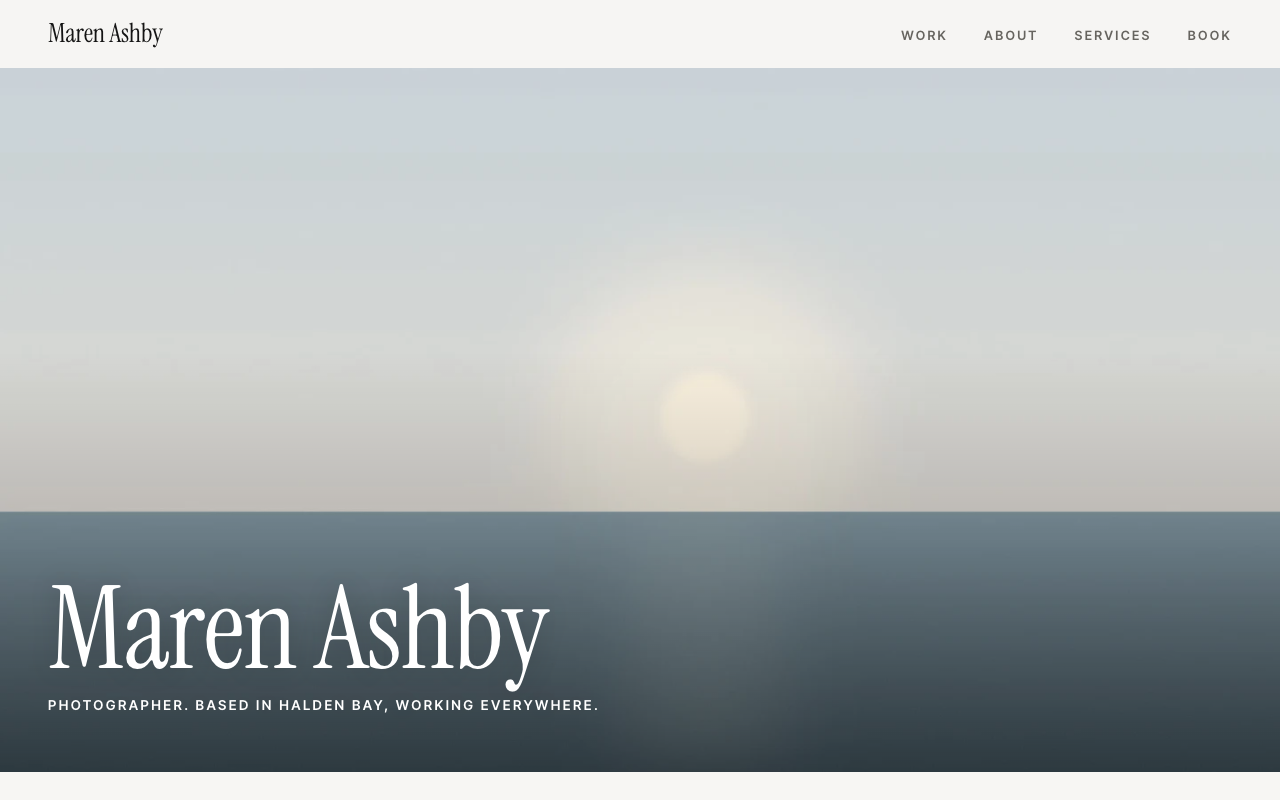
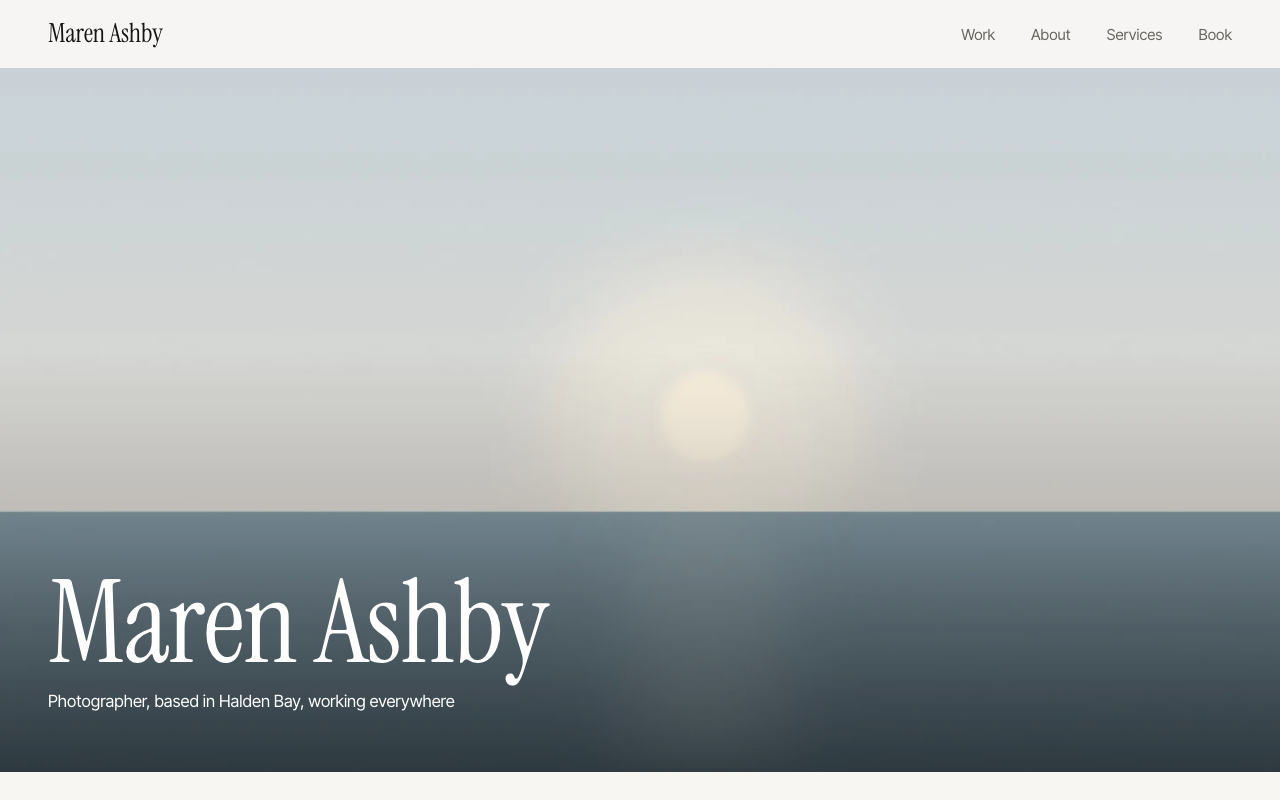
Unslop pass: sentence-case labels and buttons, no italic emphasis, no greeting or zoom on hover

Changed region(s): [[0.0312, 0.7188, 0.4688, 0.9062], [0.7188, 0.0312, 0.9062, 0.0625], [0.9375, 0.0312, 0.9688, 0.0625]]

diff --git a/src/styles/global.css b/src/styles/global.css
@@ -17,6 +17,7 @@
   --wrap: 1240px;
   --gutter: clamp(16px, 4vw, 48px);
   --gap: 8px;
+  --ease: cubic-bezier(0.22, 1, 0.36, 1);
 }
 
 @media (prefers-color-scheme: dark) {
@@ -82,7 +83,7 @@ h3 {
 }
 
 em {
-  font-style: italic;
+  font-style: normal;
 }
 
 p {
@@ -111,12 +112,10 @@ a {
 
 .label {
   display: block;
-  font-size: 0.75rem;
-  font-weight: 600;
-  letter-spacing: 0.2em;
-  text-transform: uppercase;
+  font-size: 0.95rem;
+  font-weight: 500;
   color: var(--muted);
-  margin-bottom: 1.25rem;
+  margin-bottom: 1rem;
 }
 
 .lede {
@@ -134,17 +133,15 @@ a {
   border: 1px solid var(--ink);
   border-radius: 0;
   font: inherit;
-  font-size: 0.85rem;
-  font-weight: 600;
-  letter-spacing: 0.14em;
-  text-transform: uppercase;
+  font-size: 1rem;
+  font-weight: 500;
   text-decoration: none;
   cursor: pointer;
   background: transparent;
   color: var(--ink);
   transition:
-    background-color 0.2s ease,
-    color 0.2s ease;
+    background-color 0.16s var(--ease),
+    color 0.16s var(--ease);
 }
 
 .btn:hover,

diff --git a/src/data/site.ts b/src/data/site.ts
@@ -17,7 +17,7 @@ export const site = {
 };
 
 export const home = {
-  intro: "Quiet pictures of light, land and the people in it.",
+  intro: "Quiet pictures of light, land and the people in it",
   text: "I make photographs for magazines, brands and families who want images that feel calm, honest and a little unhurried.",
   // The collection shown full-bleed at the top of the home page.
   heroPhoto: "coast-1.jpg",

diff --git a/UNSLOP.md b/UNSLOP.md
@@ -1,0 +1,36 @@
+# Unslop pass
+
+Done with the unslop skill (by Damir Sokolovsky, @heydamir, CC BY 4.0), 24 November 2026.
+
+## Audit
+
+Slop level: light. A restrained editorial portfolio already (warm paper, Instrument Serif, Inter Tight, square corners, the photographs carrying all the color), so this was polish mode.
+
+- Uppercase tracked labels nearly everywhere: nav, menu button, section labels, "All collections" links, the hero line under the name, buttons, form labels, collection facts, the back link, client list title, the "Most booked" tag
+- Italic for emphasis in headlines: "Services *and* pricing", "Hello, I'm *Maren*.", "Out of *frame.*", the footer's "*Let's talk.*", and titles turning italic on hover
+- A greeting headline on About ("Hello, I'm Maren.")
+- Trailing periods on headlines and short lines: the home statement, the hero line ("Photographer. Based in Halden Bay, working everywhere."), "Let's talk.", "Out of frame."
+- Zero-padded collection numbers ("01", "02")
+- Photographs zooming on hover (collection cards and gallery tiles)
+- Labels and prices at weight 600 with wide tracking
+- A soft text shadow under the hero name
+
+## Direction
+
+- Product: the portfolio of a landscape and portrait photographer, to show collections and take commissions
+- Character: patient, spare, salt-aired
+- World: a northern shore at first light, contact sheets, a farmhouse window
+- Moments: the full-bleed hero photograph and each collection's justified gallery
+- Signature: the contact-sheet caption under each collection ("6 photographs, 2026") and the year and count on its page
+
+## What changed
+
+- Spacing: labels sit 16px above their headings everywhere
+- Color: unchanged palette (paper, ink, one hairline); the hero's text shadow is gone, the scrim stays for legibility
+- Copy: About opens with the name instead of a greeting; no periods on headlines or the hero line ("Photographer, based in Halden Bay, working everywhere"); the Services page label says Commissions so it doesn't repeat the title
+- Type: every label, nav link, button and form label in sentence case at normal tracking, weight 400 to 500; no italic anywhere (the italic font file is no longer loaded); collection numbers plain 1 to 4
+- Details: buttons keep the square editorial corners, in sentence case; hovering a title underlines it instead of switching to italic
+- Motion: photographs no longer zoom on hover, they dim slightly; one easing curve for every transition
+
+screenshot-2: Collection page (Coastlines), the gallery
+screenshot-3: Services and pricing page
